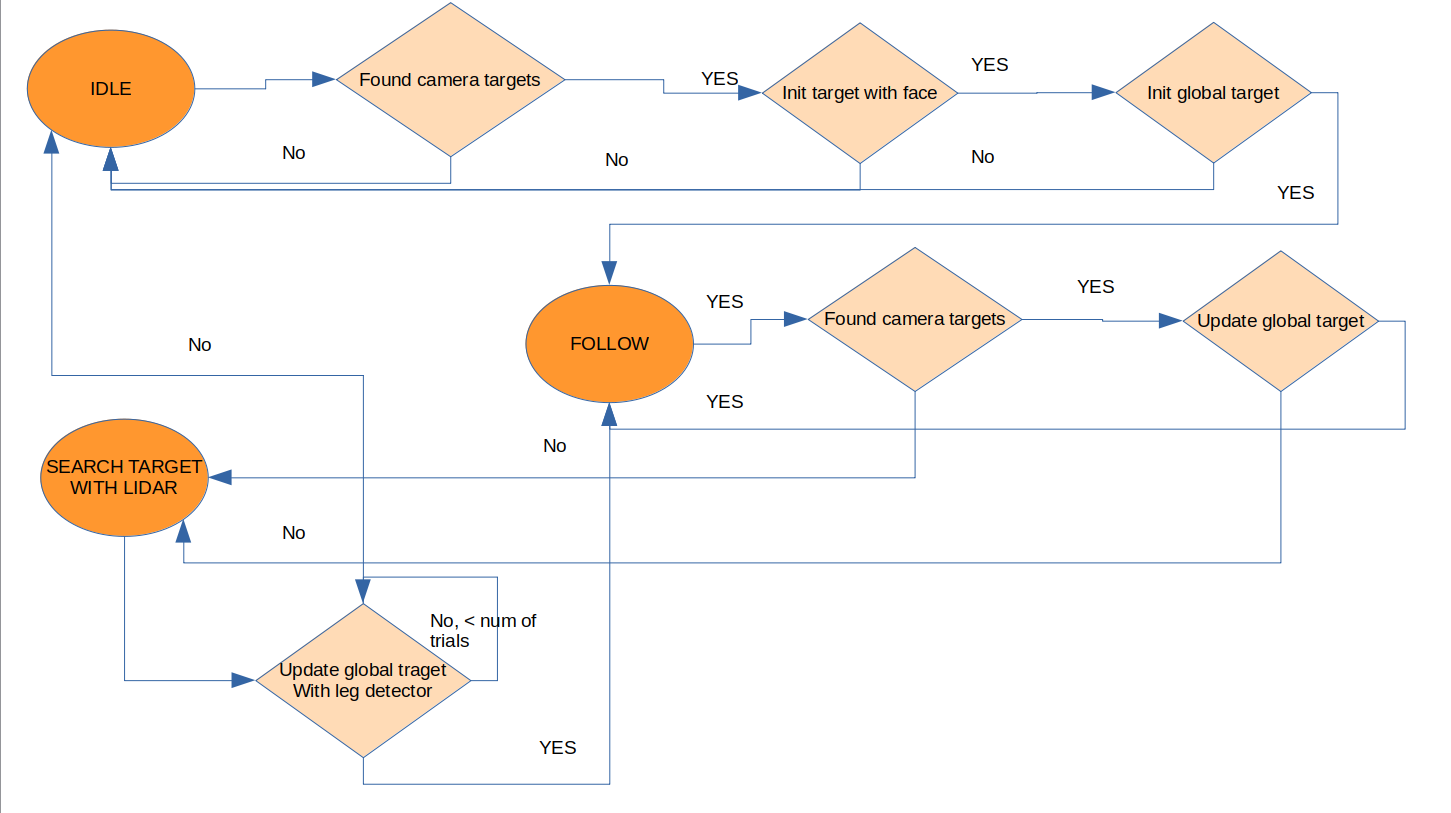
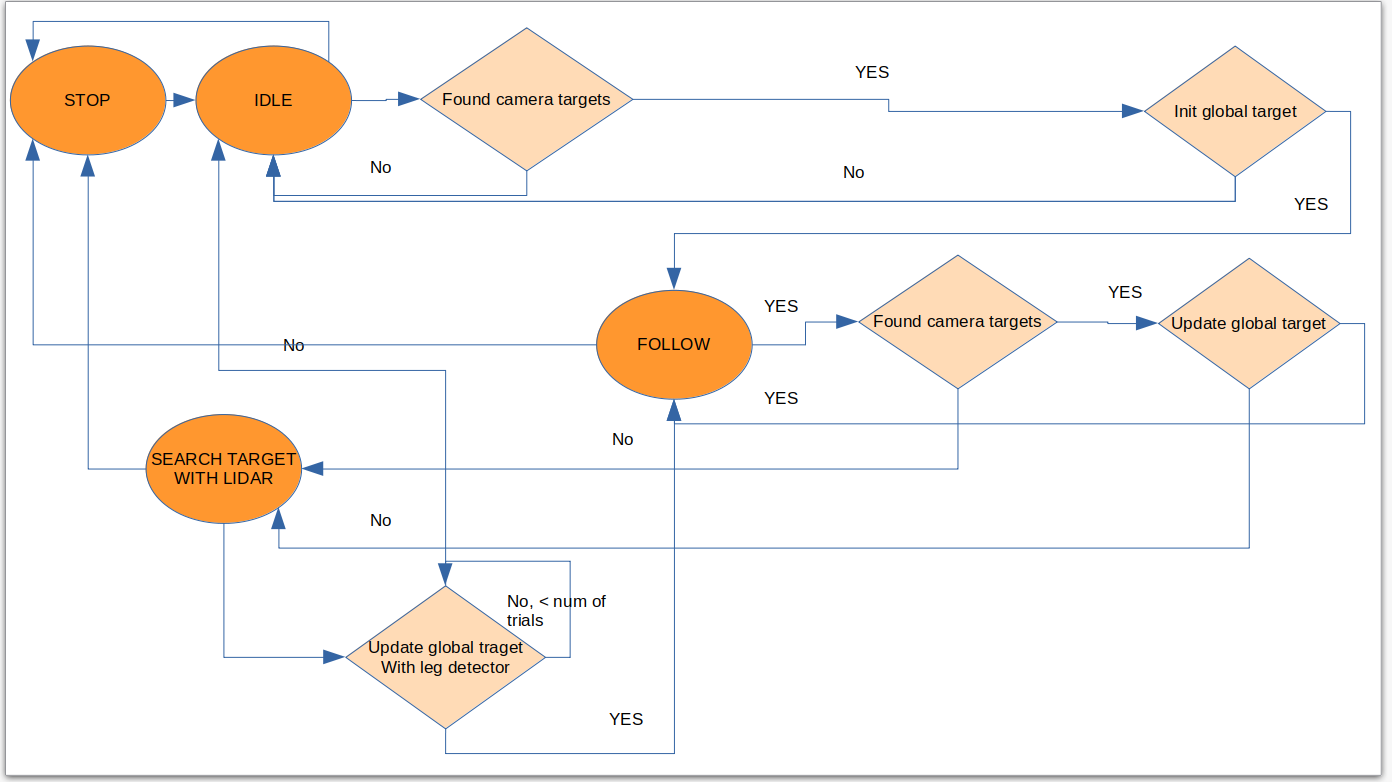
added enable param and status param

diff --git a/cogniteam_person_follower/include/cogniteam_person_follower.h b/cogniteam_person_follower/include/cogniteam_person_follower.h
@@ -103,6 +103,11 @@ public:
     {       
 
         ros::NodeHandle nodePrivate("~");
+
+        nodePrivate.param("/person_follower/status", status_, string("INITIALIZING"));
+        nodePrivate.param("/person_follower/person_follower_set_enable", setEnable_, false);  
+
+
         nodePrivate.param("/detection_img/compressed/jpeg_quality", 20);
 
         nodePrivate.param("follow_without_drive", follow_without_drive_, false);
@@ -157,10 +162,7 @@ public:
         global_map_sub_ =
             nodeHandler_.subscribe<nav_msgs::OccupancyGrid>("/map", 1,
                                                      &CogniteamPersonFollower::globalMapCallback, this);
-
-        stop_start_follower_sub_ =
-            nodeHandler_.subscribe<std_msgs::Bool>("/stop_start_follower", 1,
-                                        &CogniteamPersonFollower::stopStartFollowerCallback, this);
+       
 
         // publishers
 
@@ -213,11 +215,16 @@ public:
     ~CogniteamPersonFollower() {}
 
     void run()
-    {
+    {   
+        ros::NodeHandle nodePrivate("~");
+
         std::vector<Person> currentCameraTargets;
 
         while (ros::ok())
-        {
+        {   
+            status_ = "RUNNING";
+            nodePrivate.setParam("/person_follower/status", "RUNNING");
+
             // Check for ros interupts
             ros::spinOnce();
 
@@ -236,11 +243,17 @@ public:
             bgrWorkImg = currentBgrImg_.clone();
             depthImg = curretDepthImg_.clone();
 
+            nodePrivate.getParam("/person_follower/person_follower_set_enable", setEnable_);
+            if ( setEnable_ == false) {
 
-            if( startStopFollower_ == false) {
+                nodePrivate.setParam("/person_follower/status", "STOPPED");
 
                 state_ = STOP;
-            } 
+            } else {
+
+                nodePrivate.setParam("/person_follower/status", "RUNNING");
+
+            }
 
             cerr << getState() << endl;
 
@@ -249,13 +262,15 @@ public:
             {
                 case STOP:
                 {   
-                    
-                    if( startStopFollower_ == true ){
-
+                    nodePrivate.getParam("/person_follower/person_follower_set_enable", setEnable_);
+                    if( setEnable_ == true ) {
+   
                         state_ = IDLE;
+
                         break;
                     }
 
+                    
                     sendStopCmd();
 
                     // detect with dnn perosns
@@ -843,18 +858,7 @@ private:
         return dist;
     }
 
-    void stopStartFollowerCallback(const std_msgs::Bool::ConstPtr &msg){
-
-        if (msg->data == true){
-
-            startStopFollower_ = true;
-        } 
-        else {
-
-            startStopFollower_ = false;
-        }
-
-    }
+   
 
     void globalMapCallback(const nav_msgs::OccupancyGrid::ConstPtr &msg)
     {
@@ -1834,6 +1838,7 @@ private:
     //state and global target
     FollowerState state_ = FollowerState::STOP;
     Person globalTarget;
+    string status_;
 
 
     string scan_topic_ = "scan_filtered";
@@ -1846,7 +1851,6 @@ private:
     ros::Subscriber laserScanSubscriber_;
     ros::Subscriber imgBgrSubscriber_;
     ros::Subscriber global_map_sub_;
-    ros::Subscriber stop_start_follower_sub_;
 
     // Publisher
     ros::Publisher is_person_detected_pub_;
@@ -1899,7 +1903,7 @@ private:
 
     // following section
 
-    bool startStopFollower_ = true; //stop: false start: true
+    bool setEnable_ = false; //stop: false start: true
     float robotRadius_ = 0.3;
     float targetOffset_ = 0.5;
     float angleNotRotate_ = 15; // deg form each side
